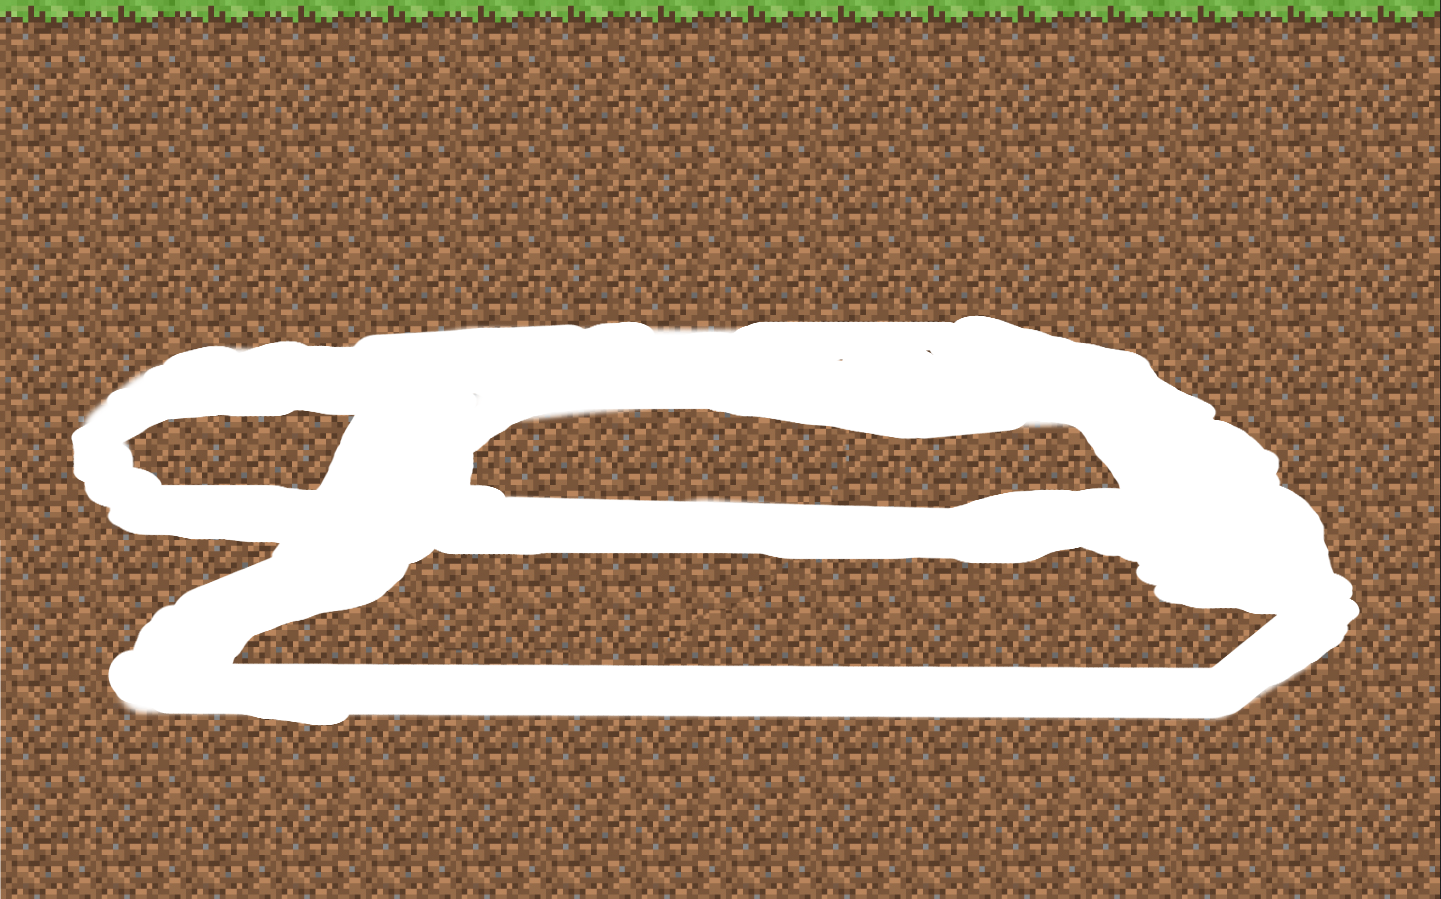
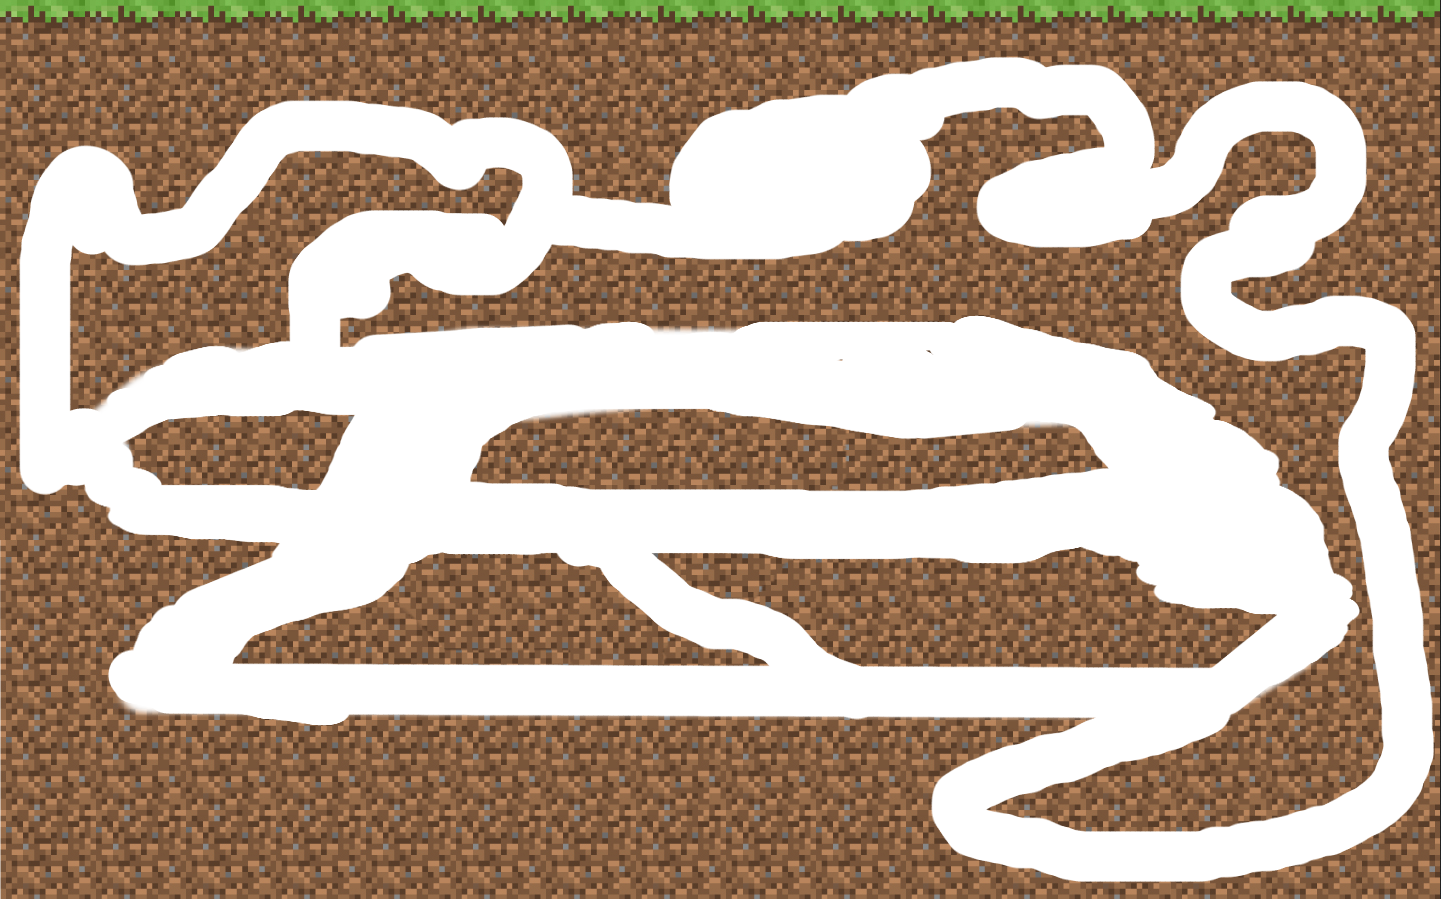
changes in physics

Changed region(s): [[0.0, 0.0623, 0.9993, 0.9967], [0.3747, 0.5918, 0.5933, 0.7475], [0.3435, 0.4983, 0.7807, 0.5918]]

diff --git a/physics.js b/physics.js
@@ -28,6 +28,10 @@ function lenvector(V1) {
   return Math.sqrt(V1.x * V1.x + V1.y * V1.y);
 }
 
+function dist(V1, V2) {
+  return Math.sqrt((V1.x - V2.x) * (V1.x - V2.x) + (V1.y - V2.y) * (V1.y - V2.y));
+}
+
 function isColliding(obj, Land, avgpoint) {
   let x = Math.round(obj.x), y = Math.round(obj.y), w = Math.round(obj.width), h = Math.round(obj.height);
 
@@ -41,12 +45,18 @@ function isColliding(obj, Land, avgpoint) {
 
   for (let i = 3; i < pixels.length; i += 4) {
     if (pixels[i] > 0) {
-      flag = true;
-      V = multvector(sumvectors(V, new vector(pixels[i].x, pixels[i].y)), 0.5)
+      const I = Math.floor(i / 4);
+      const rx = I % w;
+      const ry = Math.floor(I / w);
+      if (dist(new vector(x + rx, y + ry), new vector(x + w * 0.5, y + h * 0.5)) <= w * 0.5) {
+        flag = true;
+        V = multvector(sumvectors(V, new vector(x + rx, y + ry)), 0.5)
+      }
     }
   }
 
-  avgpoint = V;
+  avgpoint.x = V.x;
+  avgpoint.y = V.y;
 
   return flag;
 }
@@ -57,26 +67,29 @@ export function physics_init() {
 
 let velocity = 0;
 
-export function simulation(obj_1, obj_2, land) {
+export function simulation(obj_1, land) {
   let avgV = new vector(0, 0)
-  let R1 = new vector(obj_1.x + (obj_1.width - obj_1.x) * 0.5, obj_1.y + (obj_1.height - obj_1.y) * 0.5);
+  let R1 = new vector(obj_1.x + obj_1.width * 0.5, obj_1.y + obj_1.height * 0.5);
+  let a = 0;
 
-  obj_1.x -= input_cont.keys['KeyA'];
-  obj_1.x += input_cont.keys['KeyD'];
-  obj_1.y -= input_cont.keys['KeyW'];
-  obj_1.y += input_cont.keys['KeyS'];
+  obj_1.x -= 2 * input_cont.keys['KeyA'];
+  obj_1.x += 2 * input_cont.keys['KeyD'];
+  obj_1.y -= 2 * input_cont.keys['KeyW'];
+  obj_1.y += 2 * input_cont.keys['KeyS'];
 
-
-  if (isColliding(obj_1, land, avgV)) {
-    let v = multvector(subvectors(R1, avgV), 1.0 / lenvector(subvectors(R1, avgV)))
-    velocity = 0;
-    obj_1.x -= v.x, obj_1.y -= v.y
-    if (input_cont.keysClick['Space'] == 1) {
-      velocity -= 50 * g * timer.globalDeltaTime;
+  for (let i = 0; i < 52; i++) {
+    if (isColliding(obj_1, land, avgV)) {
+      let N = subvectors(R1, avgV)
+      velocity = 0;
+      N = multvector(N, 0.5 / lenvector(N))
+      obj_1.x += N.x, obj_1.y += N.y;
+      if (input_cont.keysClick['Space'] == 1) {
+        velocity -= 50 * g * timer.globalDeltaTime;
+      }
     }
-
   }
-  console.log(obj_1.x, obj_1.y)
   velocity += g * timer.globalDeltaTime;
   obj_1.y -= velocity * timer.globalDeltaTime;
+
+  console.log("velocity:", velocity, "   acceleration:", a)
 }

diff --git a/render.js b/render.js
@@ -8,8 +8,8 @@ export let stc;
 let player = {
   x: 500,
   y: 500,
-  width: 50,
-  height: 50,
+  width: 25,
+  height: 25,
   img: ava
 }
 
@@ -39,7 +39,7 @@ export function drawScene(canvas, dincanvas) {
   stc.clearRect(0, 0, canvas.width, canvas.height);
   din.clearRect(0, 0, canvas.width, canvas.height);
 
-  simulation(player, null, din);
+  simulation(player, din);
 
   //background
   let img = document.getElementById("background");
@@ -48,9 +48,15 @@ export function drawScene(canvas, dincanvas) {
 
   //stc.drawImage(dincanvas, 0, 0);
 
+  // Рисуем изображение
   player.img = document.getElementById("avatar");
-  stc.drawImage(player.img, player.x, player.y, 50, 50);
-
+  stc.beginPath();
+  stc.arc(player.x + player.width * 0.5, player.y + player.height * 0.5, player.width * 0.5, 0, Math.PI * 2);
+  stc.closePath();
+  stc.save();
+  stc.clip();
+  stc.drawImage(player.img, player.x, player.y, player.width, player.height);
+  stc.restore();
   /*
     stc.beginPath();
     stc.arc(x, 100, 25, 0, Math.PI * 2);
